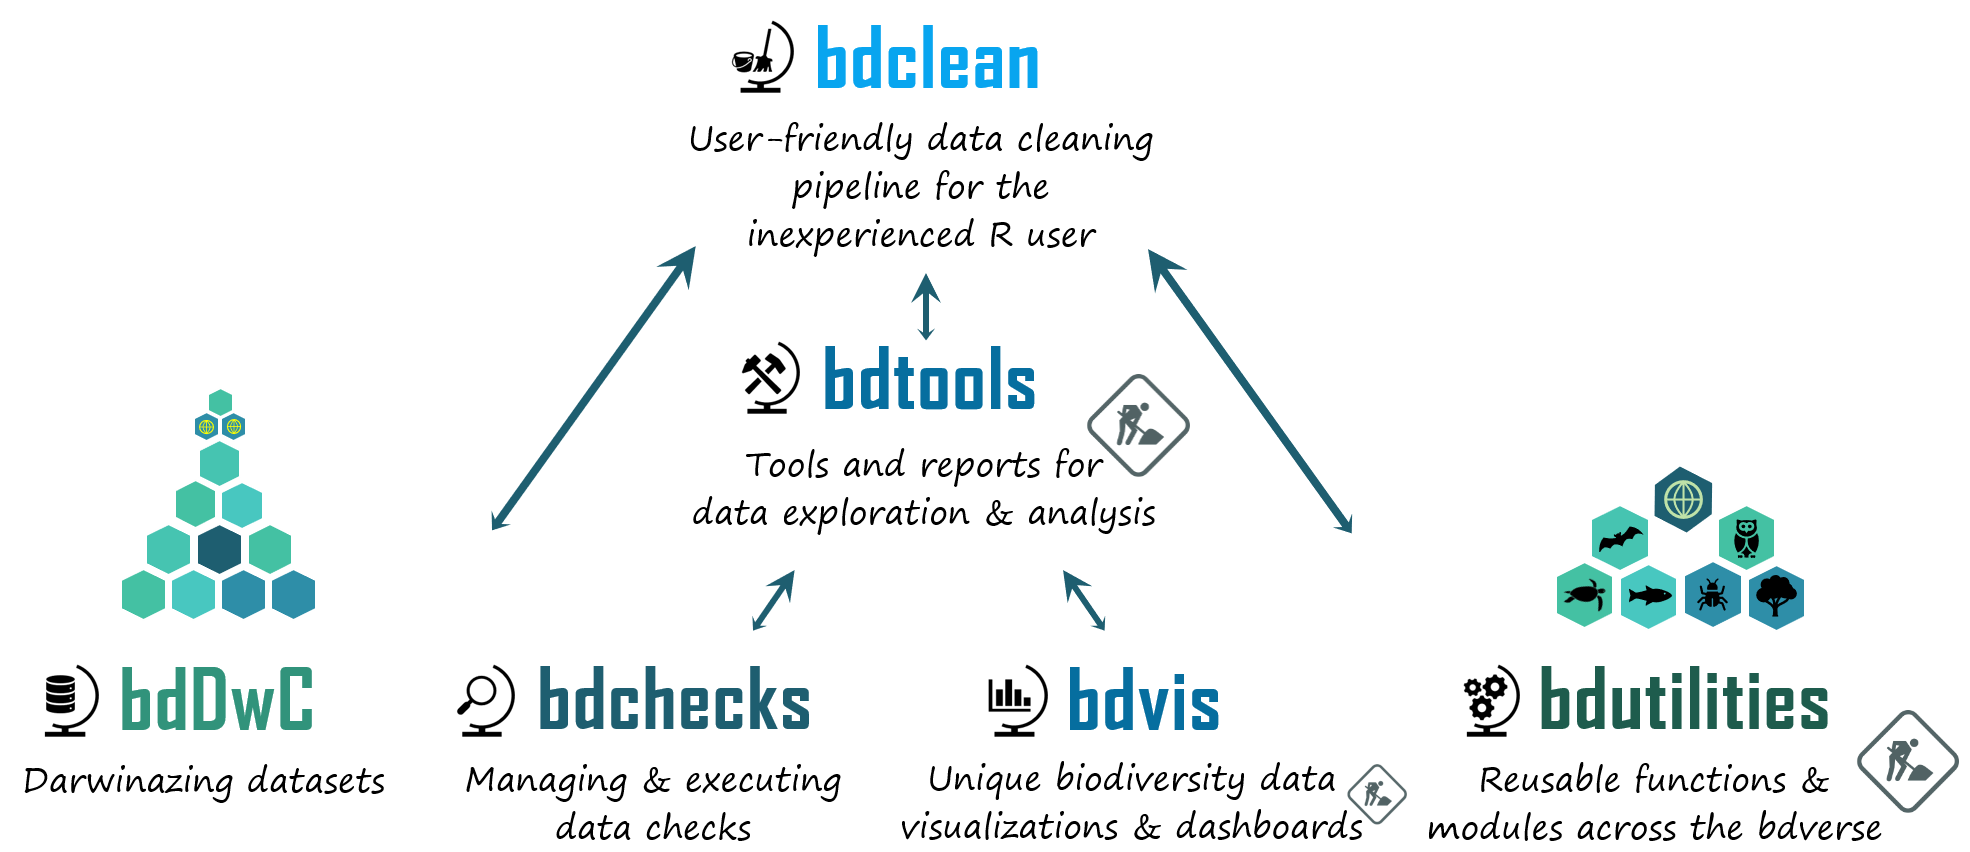
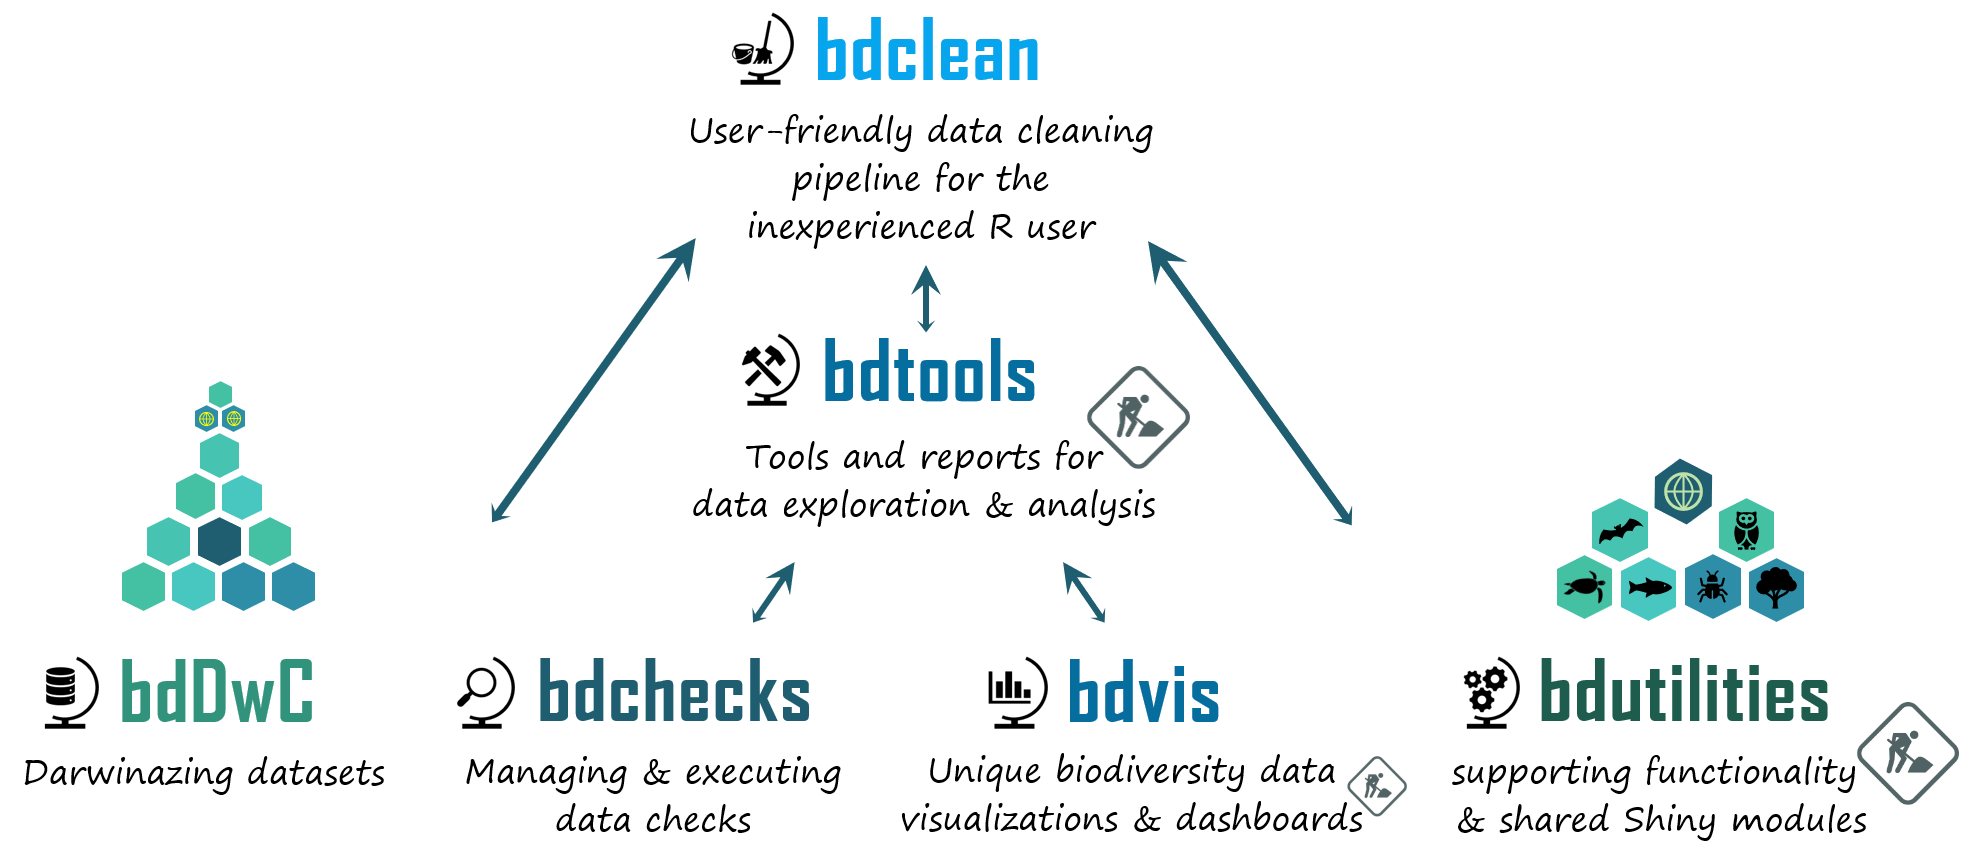
draft 10.9

diff --git a/bdutilities.md b/bdutilities.md
@@ -1,7 +1,7 @@
 ---
 layout: default
 ---
-## bdutilities: bdverse supporting functionality
+## bdutilities: bdverse supporting functionality & shared Shiny modules
 
 <img src="assets/images/under_construction.png" alt="bdutilities is under construction" title= "bdutilities is under construction" width="100"/>
 <a href="https://github.com/bd-R/bdutilities" target="_blank"><img src="assets/images/github_repo.png" alt="bdutilities GitHub repository" title= "Open bdutilities repository" width="90"/></a>

diff --git a/the-bdverse-team.md b/the-bdverse-team.md
@@ -6,6 +6,9 @@ layout: default
 
 ![](assets/images/the-team.png)
 
+## Contact us
+
+**The bdverse Team**  
 
 
 
